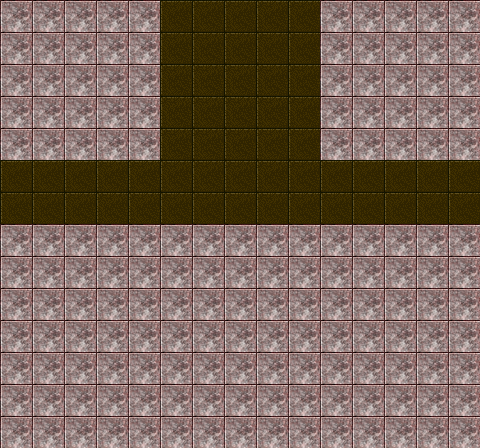
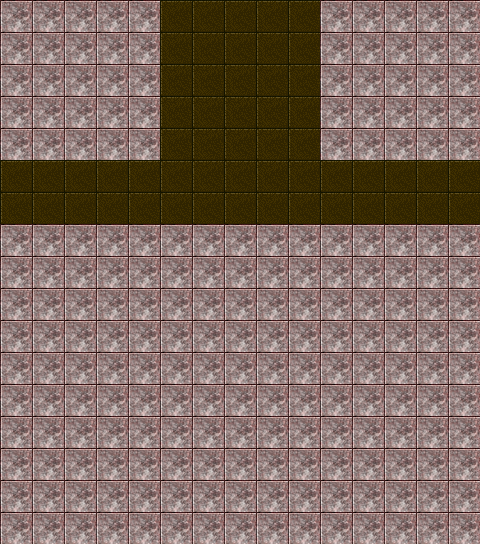
Added retractable spikes

diff --git a/core/src/com/mygdx/game/GameObjects/Hazards/Spikes.kt b/core/src/com/mygdx/game/GameObjects/Hazards/Spikes.kt
@@ -1,0 +1,97 @@
+package com.mygdx.game.GameObjects.Hazards
+
+import com.badlogic.gdx.graphics.Texture
+import com.badlogic.gdx.graphics.g2d.SpriteBatch
+import com.badlogic.gdx.math.Vector2
+import com.mygdx.game.*
+import com.mygdx.game.CannotMoveStrategy.CannotMoveStrategy
+import com.mygdx.game.Collisions.AreaEntranceCollition
+import com.mygdx.game.Collisions.DefaultAreaEntranceCollition
+import com.mygdx.game.Enums.Direction
+import com.mygdx.game.Enums.Layer
+import com.mygdx.game.GameObjects.AnimeliaPosition
+import com.mygdx.game.GameObjects.GameObject.GameObject
+import com.mygdx.game.GameObjects.GameObject.MoveableObject
+import com.mygdx.game.Managers.AreaManager
+import kotlinx.serialization.Serializable
+import kotlinx.serialization.json.Json
+import kotlinx.serialization.json.decodeFromJsonElement
+
+class Spikes(gameObjectData: GameObjectData) : GameObject(gameObjectData) {
+    lateinit var goToPosition: AnimeliaPosition
+    val retractable = Json.decodeFromJsonElement<SpikesCustomFields>(gameObjectData.customFields).Retractable
+    val posEntityRef = Json.decodeFromJsonElement<SpikesCustomFields>(gameObjectData.customFields).Entity_ref
+    override val layer = Layer.ONGROUND
+    override val texture = DefaultTextureHandler.getTexture("Spike.png")
+
+    override val collision = SpikesCollision(this)
+
+    val maxHeight = 32f
+    var currentHeight = maxHeight
+    var counter = 0
+    val cycleFrames = 96
+
+    val currentFrame: Int
+        get() = counter % cycleFrames
+
+    val spikesActive: Boolean
+        get() = if(!retractable) true else currentFrame >= 63
+
+    override fun initObject() {
+        goToPosition = AreaManager.getObjectWithIid(
+            posEntityRef.entityIid,
+            posEntityRef.levelIid
+        ) as AnimeliaPosition
+    }
+
+    override fun frameTask() {
+        super.frameTask()
+
+        if(retractable){
+            if(currentFrame < 32){
+                currentHeight -= 1
+            }
+            else if(currentFrame in 32..63){
+                currentHeight += 1
+            }
+            else {
+
+            }
+        }
+
+            counter += 1
+
+
+    }
+
+    override fun render(batch: SpriteBatch) {
+        if(!retractable){
+            renderRepeatedTexture(batch, texture, this.currentPosition(),this.size)
+        } else {
+            for(i in 0 until this.size.x.toInt() step 16 ){
+                for(j in 0 until this.size.y.toInt() step 32){
+                    renderRepeatedTexture(batch, texture, this.currentPosition() + Vector2(i.toFloat(), j.toFloat()), Vector2(16f,currentHeight))
+                }
+            }
+           // renderRepeatedTexture(batch, texture, this.currentPosition(), Vector2(16f,currentHeight))
+        }
+    }
+
+
+}
+class SpikesCollision(val spikes: Spikes): DefaultAreaEntranceCollition(){
+    override fun actionWhileInside() {
+        if(spikes.spikesActive){
+            //hack right now
+            player.setPosition(spikes.goToPosition.currentPosition())
+        }
+    }
+
+    override var canMoveAfterCollision = true
+
+}
+
+@Serializable
+data class SpikesCustomFields(val Retractable: Boolean, val Entity_ref: EntityRefData){
+
+}

diff --git a/core/src/com/mygdx/game/GameObjects/Hazards/BoxingGlove.kt b/core/src/com/mygdx/game/GameObjects/Hazards/BoxingGlove.kt
@@ -6,6 +6,7 @@ import com.badlogic.gdx.graphics.g2d.SpriteBatch
 import com.badlogic.gdx.math.Vector2
 import com.mygdx.game.*
 import com.mygdx.game.CannotMoveStrategy.CannotMoveStrategy
+import com.mygdx.game.CannotMoveStrategy.MoveRegardless
 import com.mygdx.game.Collition.CollisionMask
 import com.mygdx.game.Collition.MoveCollision
 import com.mygdx.game.Collition.OnlyPlayerCollitionMask
@@ -32,8 +33,7 @@ class BoxingGlove(gameObjectData: GameObjectData) : MoveableObject(gameObjectDat
     lateinit var goToPosition: AnimeliaPosition
     val posEntityRef = Json.decodeFromJsonElement<BoxingGloveCustomFields>(gameObjectData.customFields).Entity_ref
     override var speed  = 0.5f
-    override val cannotMoveStrategy: CannotMoveStrategy
-        get() = TODO("Not yet implemented")
+    override val cannotMoveStrategy = MoveRegardless()
 
     override val texture = DefaultTextureHandler.getTexture("BoxingGlove.png")
     val springTexture = DefaultTextureHandler.getTexture("Spring.png")

diff --git a/core/src/com/mygdx/game/GameObjectsConfig.kt b/core/src/com/mygdx/game/GameObjectsConfig.kt
@@ -48,6 +48,7 @@ data class Entities(
     val Railway: List<GameObjectData> = listOf(),
     val BoxingGlove: List<GameObjectData> = listOf(),
     val IceFloor: List<GameObjectData> = listOf(),
+    val Spikes: List<GameObjectData> = listOf(),
 )
 fun initMappings(){
     GameObjectFactory.register("Door", ::Door)
@@ -72,6 +73,7 @@ fun initMappings(){
     GameObjectFactory.register("Railway", ::Railway)
     GameObjectFactory.register("BoxingGlove", ::BoxingGlove)
     GameObjectFactory.register("IceFloor", ::IceFloor)
+    GameObjectFactory.register("Spikes", ::Spikes)
 }
 @Serializable
 open class GameObjectData( var x: Int = 0,

diff --git a/core/src/com/mygdx/game/MainGame.kt b/core/src/com/mygdx/game/MainGame.kt
@@ -62,7 +62,7 @@ class MainGame : ApplicationAdapter() {
         currentGameMode.spriteBatch.projectionMatrix = mainCamera.combined
         currentGameMode.render()
         AnimationManager.addAnimationsToRender()
-        //drawrects()
+        drawrects()
         AbilityManager.processAbilities()
         currentGameMode.FrameAction()
         EventManager.executeEvents()
